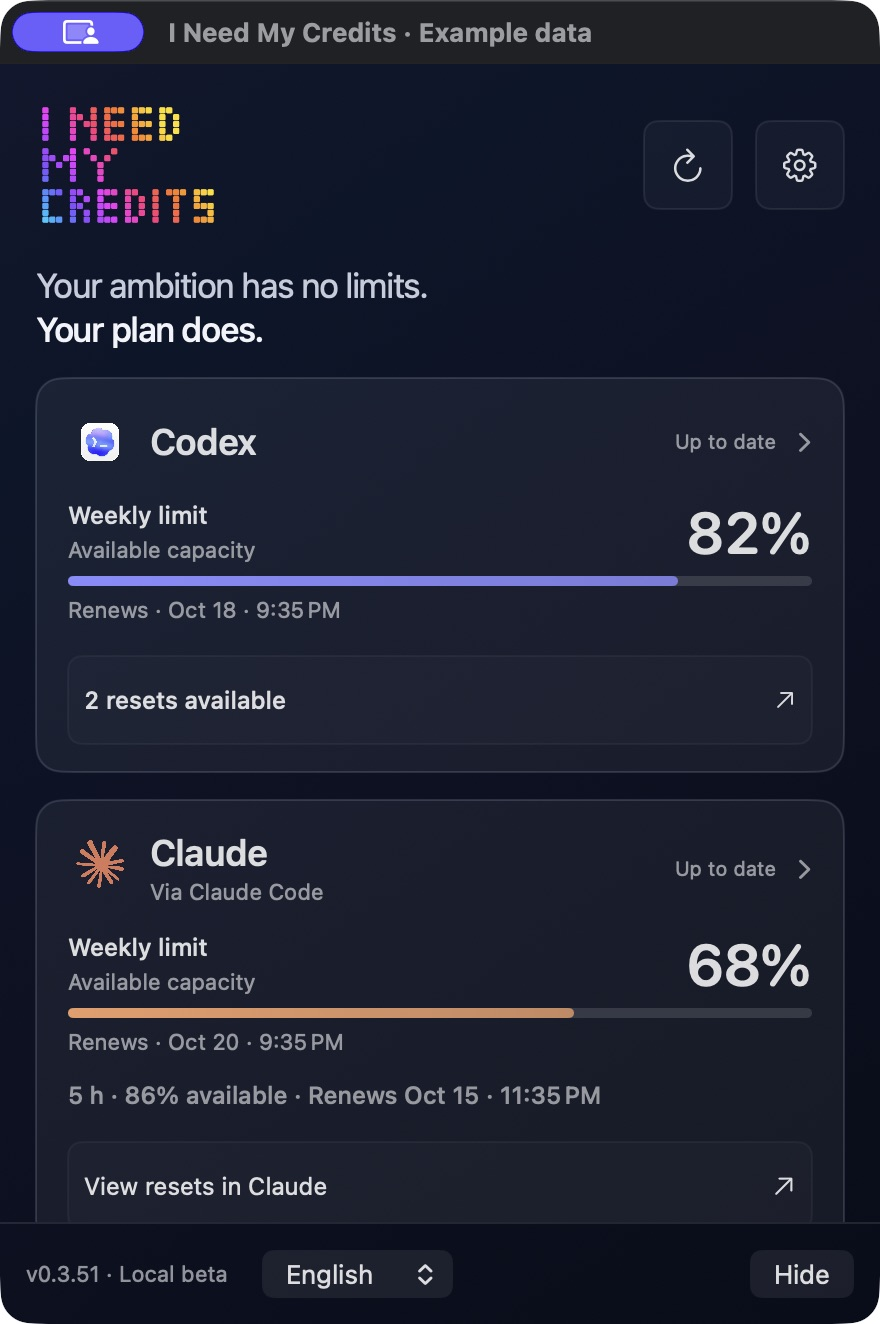
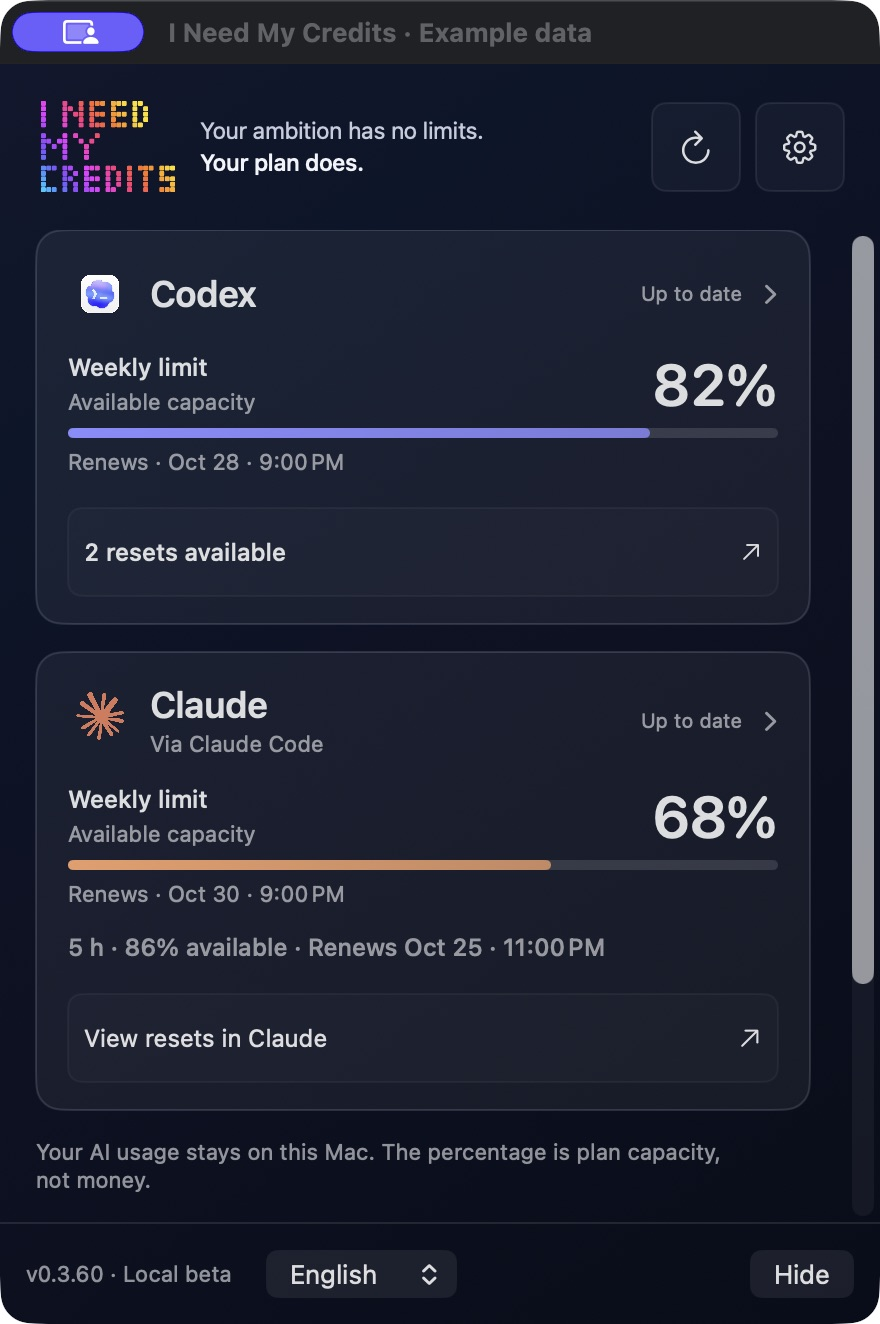
Show current native monitor with clear screenshot provenance

diff --git a/README.md b/README.md
@@ -22,7 +22,7 @@ INMC is free. Provider subscriptions are separate. For the Claude Code connectio
 Know what’s left. Make your next move count.
 
 <p align="center">
-  <a href="assets/screenshots/monitor.jpg"><img src="assets/screenshots/monitor.jpg" width="440" alt="Native INMC monitor showing Codex and Claude Code remaining plan capacity and reset windows, with example data."></a>
+  <a href="assets/screenshots/monitor.jpg"><img src="assets/screenshots/monitor.jpg" width="440" alt="Native INMC 0.3.60 monitor with its compact brand header, Codex and Claude Code remaining plan capacity and reset windows; example data."></a>
 </p>
 
 <table>
@@ -36,7 +36,7 @@ Know what’s left. Make your next move count.
   </tr>
 </table>
 
-*Captured from the native macOS interface of version 0.3.51 in an isolated preview session. Quotas, reset counts and activity are example data, not live account readings. No personal account information is shown.*
+*Monitor: native macOS interface 0.3.60, including the compact header. Activity and shortcuts: native interface 0.3.51. Captured in isolated preview sessions; quotas, reset counts and activity are example data, not live account readings. No personal account information is shown. Click an image to view it at full size.*
 
 ## Monitor Codex and Claude Code usage
 
